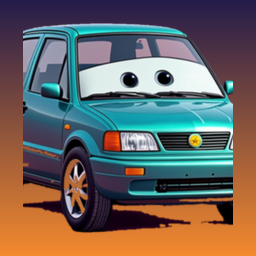
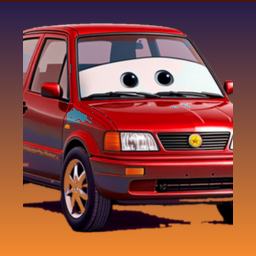
android apk pipeline: build-tools + templates + keystore + export presets; art: Boghi red/yellow recolor to approved concept + pride despeckle; v3 screenshots

diff --git a/scripts/recolor_boghi.py b/scripts/recolor_boghi.py
@@ -1,0 +1,95 @@
+#!/usr/bin/env python3
+# -*- coding: utf-8 -*-
+"""بوقی قرمز-زرد: بازگرداندن رنگ قرمزِ کانسپت تأییدشده به اسپرایت بوقی + آیکون
+   + پاکسازی لکههای نویز پراید قرمز. چشمها، سایهها و جزئیات حفظ میشوند."""
+from PIL import Image, ImageFilter
+import colorsys
+import sys
+
+SPRITES = "/home/z/my-project/game/assets/sprites"
+
+
+def hsv(px):
+    return colorsys.rgb_to_hsv(px[0] / 255, px[1] / 255, px[2] / 255)
+
+
+def recolor_boghi(path, eye_rect, sample_only=False):
+    """eye_rect = (x0,y0,x1,y1) نسبت به ابعاد تصویر — رنگهای سرمهای چشم داخل این قاب حفظ میشود"""
+    img = Image.open(path).convert("RGBA")
+    w, h = img.size
+    if sample_only:
+        c_eye, c_body = {}, {}
+        for x in range(w):
+            for y in range(h):
+                r, g, b, a = img.getpixel((x, y))
+                if a < 10:
+                    continue
+                hh, ss, vv = hsv((r, g, b, a))
+                if ss < 0.3 or vv < 0.15:
+                    continue
+                ex, ey = x / w, y / h
+                in_eye = eye_rect[0] <= ex <= eye_rect[2] and eye_rect[1] <= ey <= eye_rect[3]
+                bucket = c_eye if in_eye else c_body
+                bucket[round(hh, 1)] = bucket.get(round(hh, 1), 0) + 1
+        print(f"  {path.split('/')[-1]}  size={w}x{h}")
+        print("    EYE-RECT hues:", sorted(c_eye.items(), key=lambda kv: -kv[1])[:6])
+        print("    BODY hues:", sorted(c_body.items(), key=lambda kv: -kv[1])[:6])
+        return
+    px = img.load()
+    ex0, ey0, ex1, ey1 = eye_rect
+    changed = 0
+    for y in range(h):
+        for x in range(w):
+            r, g, b, a = px[x, y]
+            if a == 0:
+                continue
+            hh, ss, vv = hsv((r, g, b, a))
+            nx, ny = x / w, y / h
+            in_eye = ex0 <= nx <= ex1 and ey0 <= ny <= ey1
+            # حفظ چشمهای سرمهای داخل قاب
+            if in_eye and 0.54 <= hh <= 0.78:
+                continue
+            # بازه فیروزهای/سبز-آبی بدنه (شامل سایههای تیره h~0.65-0.68)
+            if 0.38 <= hh <= 0.70 and ss > 0.05 and vv > 0.08:
+                nh = 0.995 + (hh - 0.50) * 0.05
+                ns = min(1.0, ss * 1.22)
+                nv = min(1.0, vv * 1.04)
+                nr, ng, nb = colorsys.hsv_to_rgb(nh % 1.0, ns, nv)
+                px[x, y] = (int(nr * 255), int(ng * 255), int(nb * 255), a)
+                changed += 1
+    img.save(path)
+    print(f"  recolored {changed}/{w*h} px -> {path.split('/')[-1]}")
+
+
+def despeckle(path):
+    """حذف نقطههای نویز تیره داخل بدنهٔ قرمز: فقط پیکسل تیرهای که میانهٔ
+       همسایگی ۷×۷ آن روشنِ قرمز است، با میانه جایگزین میشود."""
+    img = Image.open(path).convert("RGBA")
+    med = img.filter(ImageFilter.MedianFilter(size=7))
+    p1, p2 = img.load(), med.load()
+    w, h = img.size
+    fixed = 0
+    for y in range(2, h - 2):
+        for x in range(2, w - 2):
+            r, g, b, a = p1[x, y]
+            if a == 0:
+                continue
+            hh, ss, vv = hsv((r, g, b, a))
+            mh, ms, mv = hsv(p2[x, y])
+            red = (mh % 1.0) <= 0.14 or (mh % 1.0) >= 0.90
+            if vv < 0.32 and mv > 0.45 and ms > 0.35 and red:
+                p1[x, y] = p2[x, y]
+                fixed += 1
+    img.save(path)
+    print(f"  despeckled {fixed} px -> {path.split('/')[-1]}")
+
+
+if __name__ == "__main__":
+    mode = sys.argv[1] if len(sys.argv) > 1 else "run"
+    print("[1] boghi_side.png")
+    recolor_boghi(f"{SPRITES}/boghi_side.png", (0.28, 0.14, 0.72, 0.44), sample_only=(mode == "sample"))
+    if mode != "sample":
+        print("[2] icon.png")
+        recolor_boghi("/home/z/my-project/game/icon.png", (0.26, 0.16, 0.74, 0.48))
+        print("[3] pride_side.png despeckle")
+        despeckle(f"{SPRITES}/pride_side.png")
